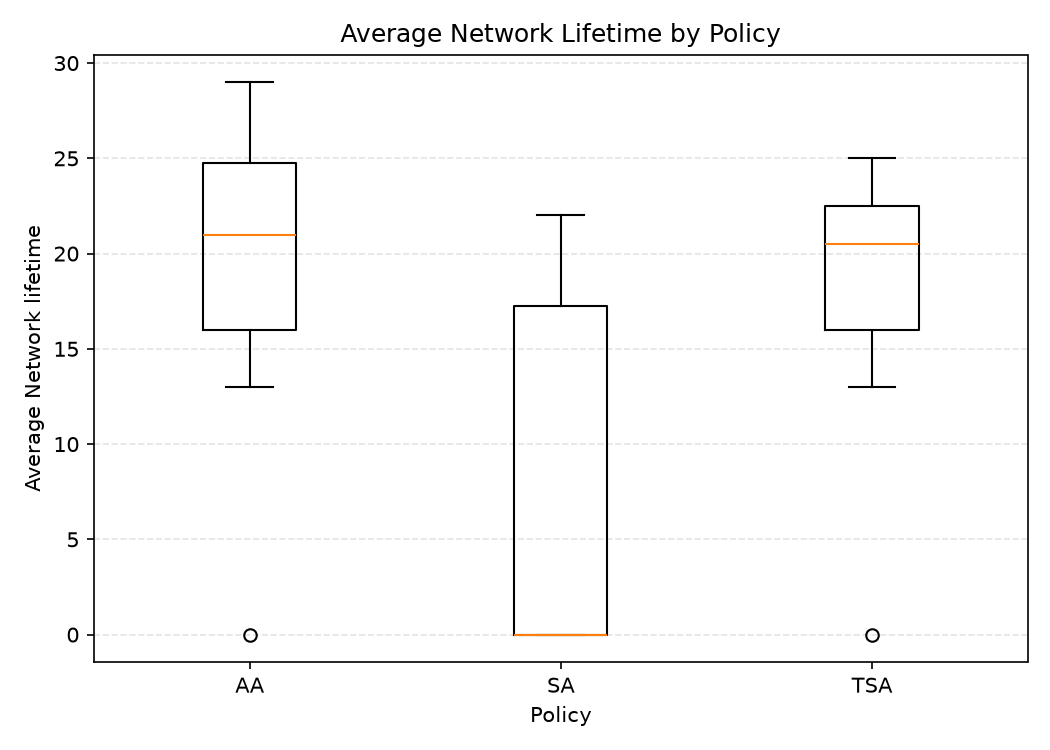
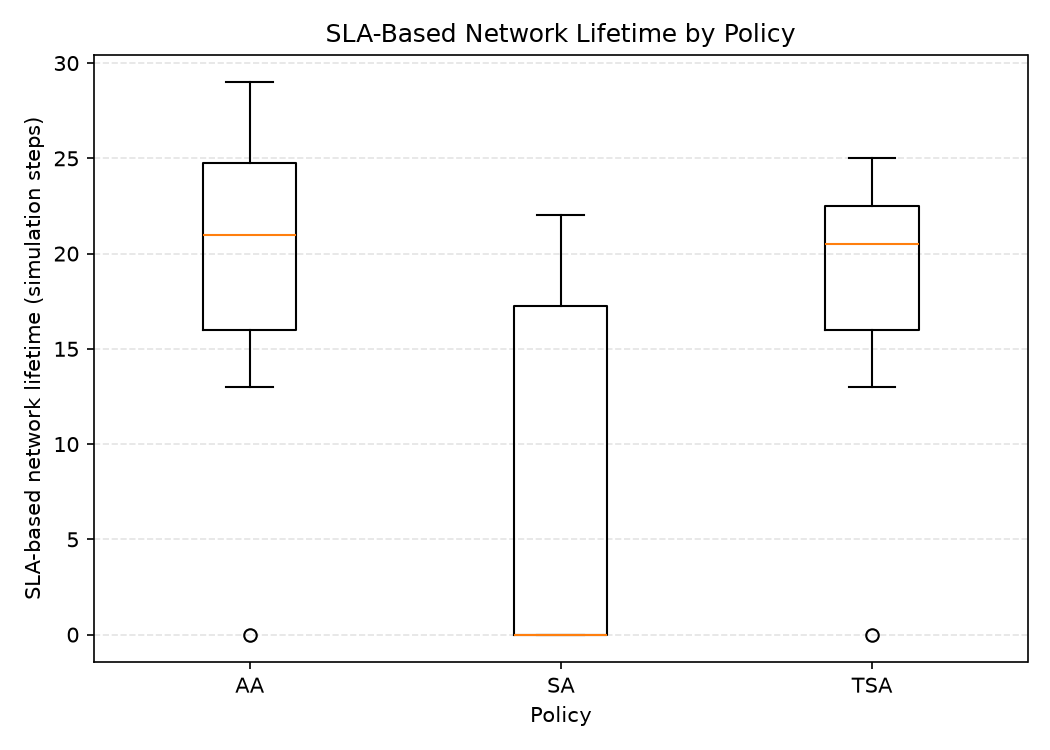
Chore: final fixes suggested by codex

diff --git a/sections/05_simulation_discussion.tex b/sections/05_simulation_discussion.tex
@@ -15,7 +15,7 @@ are referenced in the following discussion to illustrate the observed trade-offs
     \label{fig:served-user-fraction-over-time}
 \end{figure}
 
-Figure~\ref{fig:served-user-fraction-over-time} presents the mean served-user fraction at each timestamp, with the interquartile range across the ten repetitions shaded for each policy. All policies begin with a mean served-user fraction of approximately 0.86; however, their subsequent trajectories diverge significantly. \policyabbr{AA} maintains the strongest service trajectory during the early outage period. \policyabbr{TSA} initially mirrors \policyabbr{AA}, while \policyabbr{SA} exhibits an immediate reduction in service following the start of its staggered schedule. The mean served-user fraction drops below the 0.7 SLA threshold at time 21 for both \policyabbr{AA} and \policyabbr{TSA}, but at time 1 for \policyabbr{SA}. Therefore, the periodic sleep schedule reduces service availability precisely when continuous emergency connectivity is most critical.
+Figure~\ref{fig:served-user-fraction-over-time} presents the mean served-user fraction at each timestamp, with the interquartile range across the ten repetitions shaded for each policy. All policies begin with a mean served-user fraction of approximately 0.86; however, their subsequent trajectories diverge significantly. \policyabbr{AA} maintains the strongest service trajectory during the early outage period. \policyabbr{TSA} initially mirrors \policyabbr{AA}, while \policyabbr{SA} exhibits an immediate reduction in service following the start of its staggered schedule. The mean served-user fraction drops below the 0.7 SLA threshold at time 21 for both \policyabbr{AA} and \policyabbr{TSA}, but at time 1 for \policyabbr{SA}. These threshold crossings describe the aggregate trajectories in Figure~\ref{fig:served-user-fraction-over-time}; they are not the SLA-based network lifetimes of individual repetitions. The latter are calculated from each run's first SLA violation and are summarized in Table~\ref{tab:simulation-results-summary} and Figure~\ref{fig:network-lifetime-by-policy}. The periodic sleep schedule therefore reduces service availability precisely when continuous emergency connectivity is most critical.
 
 The subsequent fluctuations in the \policyabbr{SA} trajectory do not indicate network recovery. These variations occur when alternating RU groups change state, altering the set of RUs available to serve users. As the model excludes battery recharge, all three trajectories decline as stored energy is depleted.  By the end of the 100-step horizon, the mean served-user fractions for all policies approach zero.
 
@@ -59,8 +59,8 @@ These results illustrate the energy--service trade-off. \policyabbr{SA} provides
     \label{fig:network-lifetime-by-policy}
 \end{figure}
 
-Figure~\ref{fig:network-lifetime-by-policy} evaluates the policies based on network lifetime, a stricter metric than horizon-average QoS. Network lifetime is defined as the final timestamp before the first instance in which the served-user fraction falls below the SLA threshold. A value of zero indicates that the SLA was not maintained beyond the onset of the observed outage, and it does not imply that the network provided no service during the simulation.  Likewise, subsequent increases in the served-user fraction cannot restore network lifetime once an earlier SLA violation has occurred.
+Figure~\ref{fig:network-lifetime-by-policy} evaluates the policies using SLA-based network lifetime, a stricter metric than horizon-average QoS. SLA-based network lifetime is defined as the final timestamp before the first instance in which the served-user fraction falls below the SLA threshold. A value of zero indicates that the SLA was not maintained beyond the onset of the observed outage, and it does not imply that the network provided no service during the simulation. Likewise, subsequent increases in the served-user fraction cannot restore SLA-based network lifetime once an earlier SLA violation has occurred.
 
 \policyabbr{AA} achieves a median network lifetime of 21.0 steps, while \policyabbr{TSA} closely matches this with a median of 20.5 steps.  \policyabbr{TSA} equals \policyabbr{AA}'s network lifetime in eight out of ten repetitions and is lower in the remaining two. In contrast, \policyabbr{SA} exhibits a median network lifetime of zero and an interquartile range of 0.0--17.3 steps. These findings indicate that \policyabbr{SA}'s periodic staggering frequently fails to meet the SLA before it can deliver a sustained emergency service interval, despite its subsequent battery advantage.
 
-Thus, Network lifetime alters the interpretation of the battery results. If the primary objective were to delay average RU depletion, \policyabbr{SA} would be the preferred policy. However, for an emergency network aiming to maintain the configured service target without interruption, \policyabbr{SA} is not appropriate. \policyabbr{TSA} is more suitable, as it preserves nearly all of \policyabbr{AA}'s SLA lifetime while providing a systematic, though modest, extension of battery life.
+Thus, SLA-based network lifetime alters the interpretation of the battery results. If the primary objective were to delay average RU depletion, \policyabbr{SA} would be the preferred policy. However, for an emergency network aiming to maintain the configured service target without interruption, \policyabbr{SA} is not appropriate. \policyabbr{TSA} is more suitable, as it preserves nearly all of \policyabbr{AA}'s SLA-based network lifetime while providing a systematic, though modest, extension of battery life.

diff --git a/sections/04_simulation_methodology.tex b/sections/04_simulation_methodology.tex
@@ -44,13 +44,13 @@ The experiment compares three policies: Always Active, Staggered Active, and Thr
 
 These policies serve as reference points for assessing whether straightforward sleep scheduling can preserve emergency service while extending battery availability in real-world scenarios. They are not intended as optimal outage-management strategies. Accordingly, the comparison examines the limitations and trade-offs of simple policy logic and assesses whether a more sophisticated policy is necessary.
 
-To increase the generalizability of final results, we conduct multiple simulation repetitions using different seed values. Within each repetition, all three policies use the same seed, ensuring identical RU and user placements and the same sequence of stochastic link-quality values. This paired design reduces the influence of random topology and link variation on the comparison, isolating the selected policy as the intended experimental factor while ensuring the policy is tested across multiple RU and user placements and stochastic link-quality values.
+To characterize stochastic variation and support paired comparisons, we conduct multiple simulation repetitions using different seed values. Within each repetition, all three policies use the same seed, ensuring identical RU and user placements and the same sequence of stochastic link-quality values. This paired design reduces the influence of random topology and link variation on the comparison, isolating the selected policy as the intended experimental factor while testing the policies across multiple RU and user placements and stochastic link-quality values.
 
 \subsection{Metrics, Analysis Procedure, and Implementation Verification}
 \label{subsec:metrics-analysis}
 
-As shown in Figure~\ref{fig:simulator-architecture}, the simulator records observations at timestamp \(t=0\) and after each of the \(100\) timestep updates. The collected metrics are the served-user fraction over time, average emergency QoS, RU battery-depletion time, and network lifetime as defined in section~\ref{sec:system-model}.
+As shown in Figure~\ref{fig:simulator-architecture}, the simulator records observations at timestamp \(t=0\) and after each of the \(100\) timestep updates. The collected metrics are the served-user fraction over time, average emergency QoS, RU battery-depletion time, and SLA-based network lifetime as defined in Section~\ref{sec:system-model}. An instance whose initial served-user fraction is below the SLA has an observed network lifetime of zero; the aggregate results therefore include both baseline service feasibility and the subsequent effects of the evaluated policies.
 
 Each policy produces ten final values for every metric, one for each repetition. We retain these values as distributions rather than reducing them immediately to a single mean. Aggregate summaries use medians and interquartile ranges to describe variation between repetitions. The time-series observations similarly support comparison of the typical trajectory and variability of emergency service and RU battery levels across policies.
 
-We verify the implementation through deterministic and behavioral checks. First, identical configurations and random seeds must produce identical simulation outputs. Second, a depleted RU must not serve a user. Third, sleep-state consumption must remain lower than active-state consumption under the configured model. Finally, when all other conditions are unchanged, increasing the initial battery capacity must not reduce the observed battery lifetime. These checks confirm consistency between the implementation and the model defined in Section~\ref{sec:system-model}.
+We perform software verification through deterministic and behavioral checks. First, identical configurations and random seeds must produce identical simulation outputs. Second, a depleted RU must not serve a user. Third, sleep-state consumption must remain lower than active-state consumption under the configured model. Finally, when all other conditions are unchanged, increasing the initial battery capacity must not reduce the observed battery lifetime. These checks establish consistency between the implementation and the abstract model defined in Section~\ref{sec:system-model}; they do not validate the selected energy parameters, link model, or real-world policy performance.

diff --git a/sections/02_related_work.tex b/sections/02_related_work.tex
@@ -14,7 +14,7 @@ However, base-station sleep decisions influence coverage, user association, cell
 
 \subsection{Cellular Resilience During Power Outages}
 
-Research on cellular resilience investigates how communication networks remain operational during disasters, infrastructure failures, and power outages. Existing strategies encompass distributed architectures, self-organizing control, backup-energy allocation, and adaptive recovery mechanisms~\cite{gomez2014disasterResilient,zhang2016selfOrganization,karaman2026resilientInfrastructure}. These studies establish that reliable emergency communication is contingent upon both radio-network functionality and the availability of energy resources.
+Research on cellular resilience investigates how communication networks remain operational during disasters, infrastructure failures, and power outages. Existing strategies encompass distributed architectures, self-organizing control, backup-energy allocation, and adaptive recovery mechanisms~\cite{gomez2014disasterResilient,zhang2016selfOrganization,karaman2025resilientInfrastructure}. These studies establish that reliable emergency communication is contingent upon both radio-network functionality and the availability of energy resources.
 
 Effective backup-battery management is critical when grid power is unavailable. Wang \emph{et al.}~\cite{wang2019backupBattery} demonstrate that battery capacity and allocation substantially influence service interruptions during cellular power outages. Unlike studies that optimize battery deployment, recovery mechanisms, or adaptive control, this analysis maintains a fixed battery configuration and concentrates on the operational impact of predefined RU sleep policies. While detailed simulators, emulators, and O-RAN experimentation platforms enable more realistic validation~\cite{patriciello2019e2e,nardini2020simu5g,bonatiOpenRANGym,bonati2021colosseum}, the simulator employed here offers a transparent, policy-level comparison within a standardized outage model while eliminating unnecessary complexities that do not benefit the simulation under the proposed model.
 

diff --git a/sections/03_system_model_policies.tex b/sections/03_system_model_policies.tex
@@ -58,7 +58,7 @@ RU that is active, non-depleted, and not full; otherwise the user remains
 unassociated.  The complete association map is recomputed independently at
 every observation timestamp; associations are neither sticky nor persistent
 across time steps.  The simulator models no handover hysteresis or minimum
-residence time.  Therefore, a user served by one RU at \(t-1\) maybe assigned
+residence time.  Therefore, a user served by one RU at \(t-1\) may be assigned
 to another at \(t\) when that RU ranks first among the newly ordered eligible
 candidates. Such re-association incurs no modeled delay, temporary service interruption, or
 additional energy cost.  
@@ -145,7 +145,7 @@ RUs at every controller timestamp.
 
 \subsection{Observed Metrics}
 
-We have defined QoS is as the proportion of users receiving service at
+QoS is defined as the proportion of users receiving service at
 timestamp \(t\):
 \begin{equation}
  \mathrm{QoS}(t)=\frac{1}{|U|}\sum_{u\in U}y_u(t).

diff --git a/tables/baseline_simulation_configuration.tex b/tables/baseline_simulation_configuration.tex
@@ -20,6 +20,7 @@
         Sleep consumption & 0.5 per step \\
         RU user capacity & 100 users \\
         Coverage radius & 8 grid cells \\
+        Minimum service link weight ($\lambda$) & 0.5 \\
         Simulation horizon & 100 timesteps \\
         Staggered-policy interval & 10 timesteps \\
         Threshold-policy trigger & 50\% of initial battery \\
